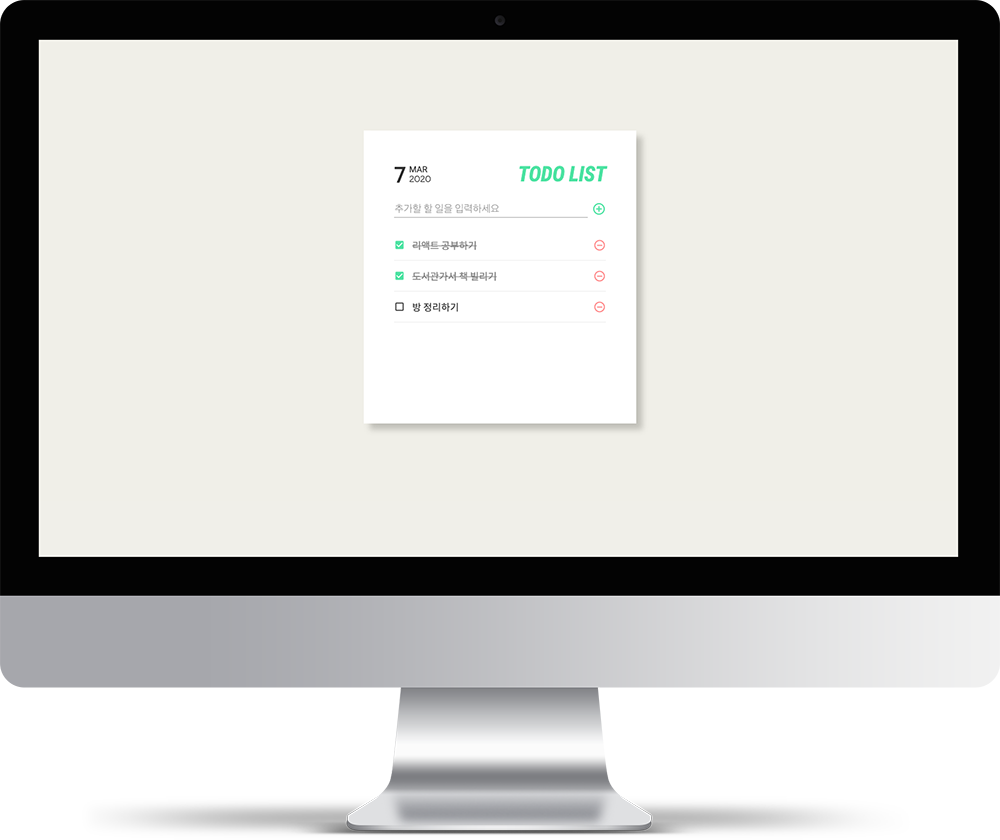
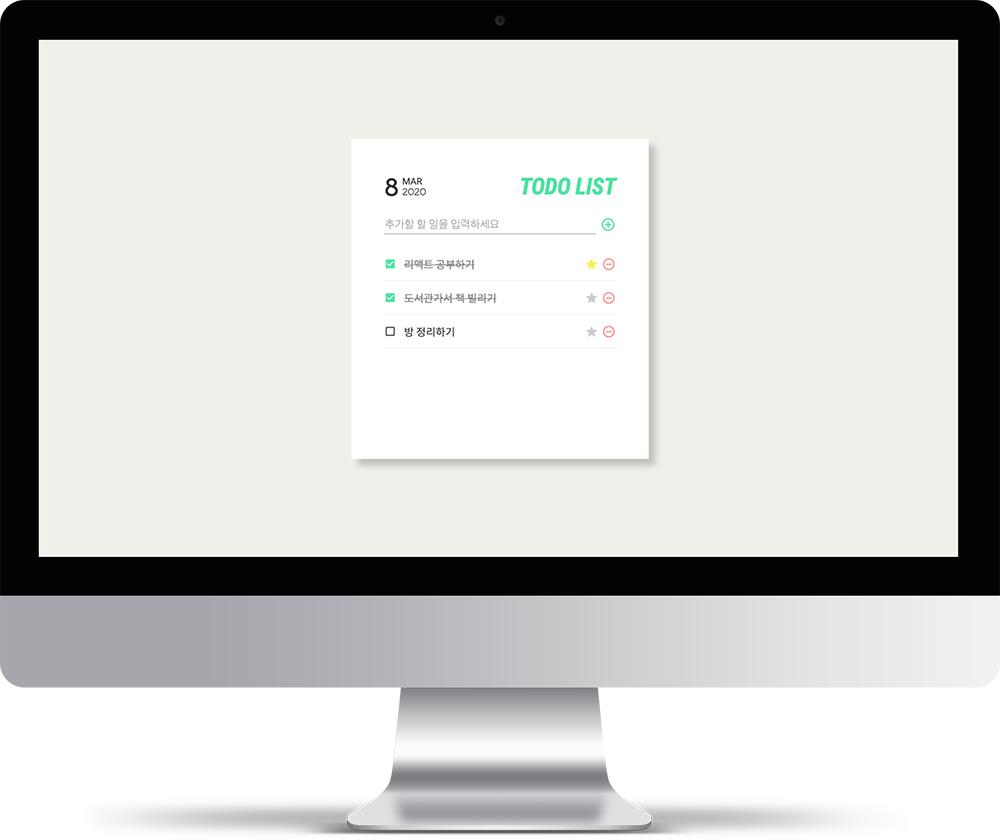
"important mark" func add

Changed region(s): [[0.372, 0.1548, 0.682, 0.5571], [0.372, 0.1857, 0.527, 0.4024]]

diff --git a/index.html b/index.html
@@ -61,7 +61,7 @@
 								TODO LIST
 							</h3>
 							<p class="summary">
-								리액트를 학습하며 제작한 데스크탑 페이지입니다.<br/><br/>할 일 추가, 삭제, 체크 등의 기능이 가능합니다.
+								리액트를 학습하며 제작한 데스크탑 페이지입니다.<br/><br/>할 일 추가, 삭제, 체크, 중요표시 등의 기능이 가능합니다. 중요표시를 하게되면 할 일 목록 중 최상단으로 이동하게 됩니다.
 							</p>
 							<ul class="point">
 								<li>
